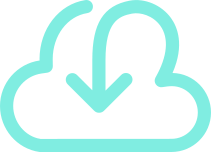
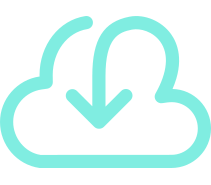
Working on welcome screen

diff --git a/src/pages/welcome.py b/src/pages/welcome.py
@@ -37,6 +37,10 @@ import misc.extra as misc
 from pages.gtkbasebox import GtkBaseBox
 from gi.repository import GdkPixbuf
 
+import gi
+gi.require_version('Gtk', '3.0')
+from gi.repository import Gtk
+
 
 class Welcome(GtkBaseBox):
     """ Welcome screen class """
@@ -69,12 +73,14 @@ class Welcome(GtkBaseBox):
         self.filenames = {
             'tryit': {
                 'path': os.path.join(welcome_dir, "try-it.svg"),
-                'width': 165,
-                'height': 189},
+                'width': 211,
+                'height': 185},
             'graph': {
                 'path': os.path.join(welcome_dir, "install-it.svg"),
-                'width': 243,
-                'height': 174}}
+                'width': 211,
+                'height': 185}}
+
+        #self.set_property("halign", Gtk.Align.CENTER)
 
         # a11y
         self.labels['tryit'].set_mnemonic_widget(self.buttons['tryit'])

diff --git a/src/info.py b/src/info.py
@@ -29,7 +29,7 @@
 
 """ Set some Cnchi global constants """
 
-CNCHI_VERSION = "0.14.385"
+CNCHI_VERSION = "0.14.386"
 CNCHI_WEBSITE = "http://www.antergos.com"
 CNCHI_RELEASE_STAGE = "production"
 
